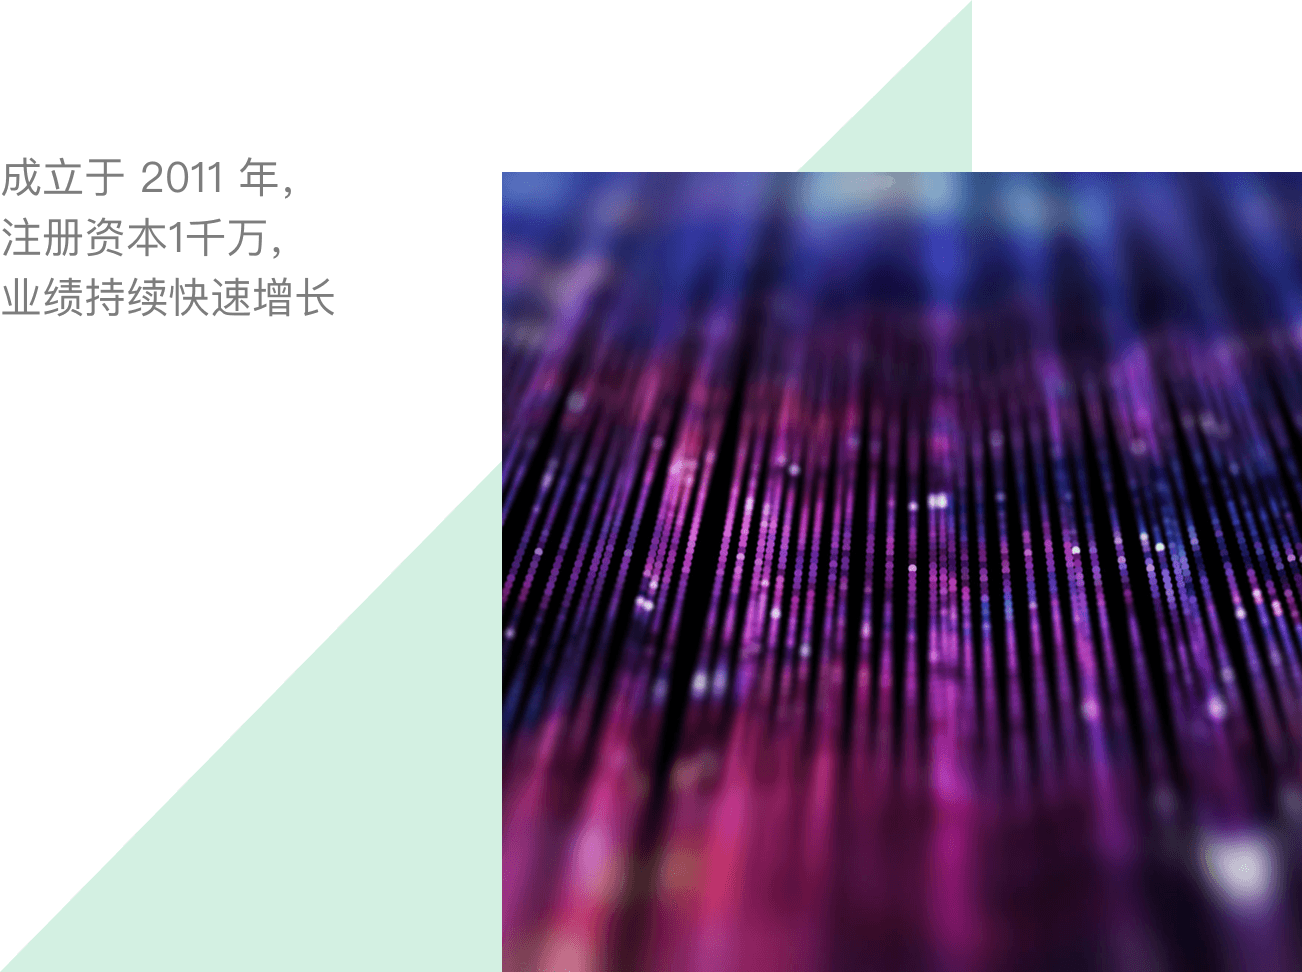
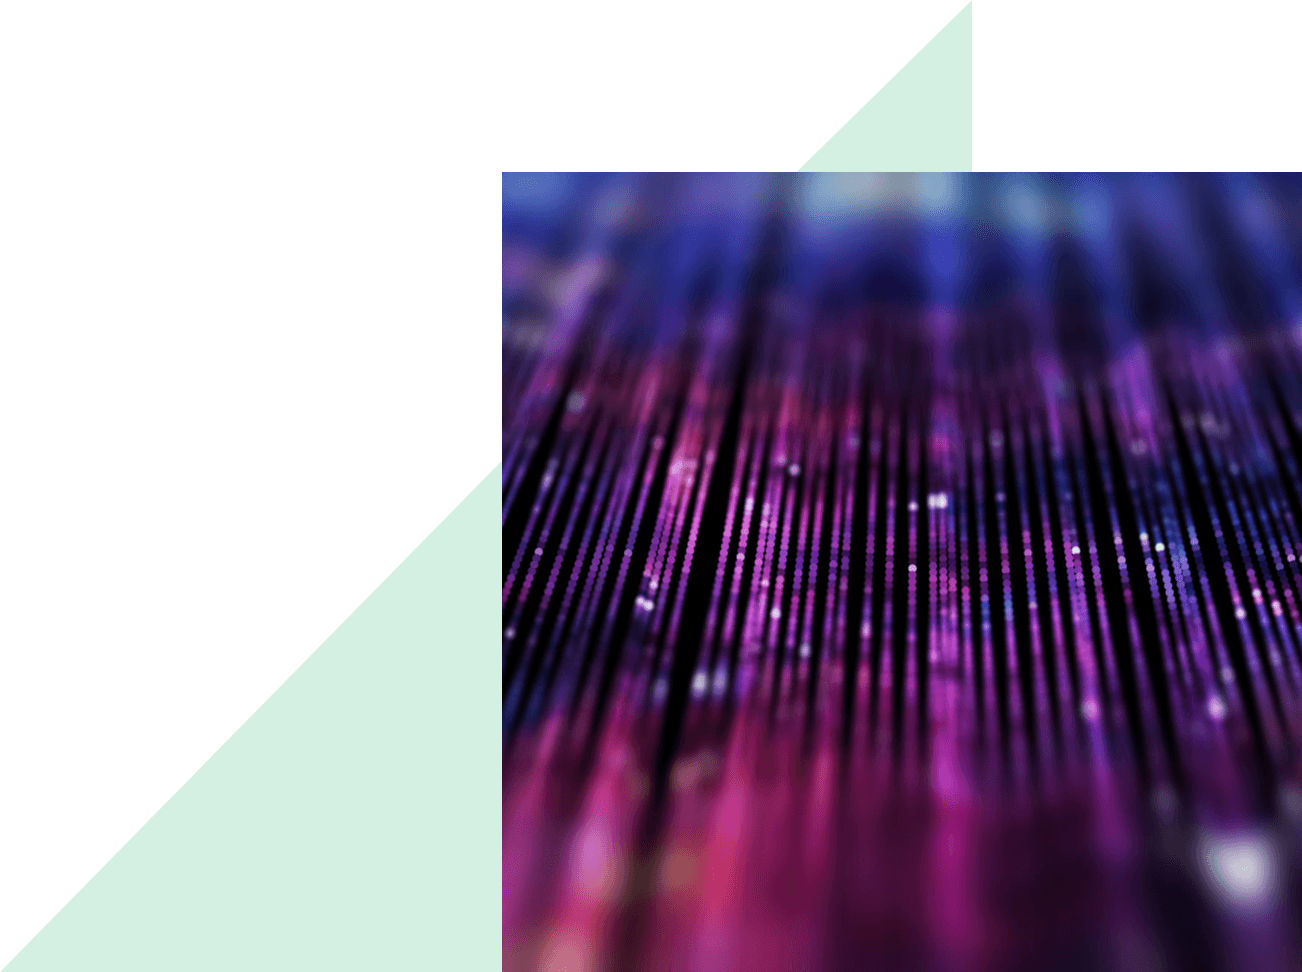
一次修改

diff --git a/src/components/PC.vue b/src/components/PC.vue
@@ -3,9 +3,9 @@
     <div class="banner">
       <div class="logo"></div>
       <div class="banner-content">
-        <h1 class="h1 wow rollIn">科技助力金融</h1>
-        <h2 class="wow bounceInDown">成号科技--可信赖的金融技术服务提供商</h2>
-        <h3 class="wow lightSpeedIn">IT智慧解决方案+IT创新服务</h3>
+        <h1 class="h1">科技助力金融</h1>
+        <h2 class="">成号科技--可信赖的金融技术服务提供商</h2>
+        <h3 class="">IT智慧解决方案+IT创新服务</h3>
         <p class="arrow bounce"></p>
       </div>
     </div>
@@ -13,18 +13,23 @@
       <div class="container">
         <div class="dis">
           <div class="chengxin wow bounceInLeft">—— 诚信、创新、专业、责任、分享 ——</div>
+          <div class="chengli wow bounceInLeft">
+            <p>成立于2011年,</p>
+            <p>注册资本1千万</p>
+            <p>业绩持续快速增长</p>
+          </div>
           <img class="wow bounceInRight" src="@/assets/img_Aboutus.png" alt="">
         </div>
       </div>
     
       <div class="about-us container">
-        <h2 class="wow flipInX">About us</h2>
+        <h2 class="">About us</h2>
         <div class="about-more">
-          <div class="about-l wow swing">关于我们</div>
-          <div class="more wow swing">更多</div>
+          <div class="about-l">关于我们</div>
+          <div class="more" @click="show = !show">更多</div>
         </div>
         <div class="row">
-          <div class="col-4">
+          <div class="col-4" @click="show = !show">
             <div class="box wow rollIn">
               <img src="@/assets/img_Aboutus01.png" alt="">
               <div class="pd10">
@@ -33,7 +38,7 @@
               </div>
             </div>
           </div>
-          <div class="col-4">
+          <div class="col-4" @click="show = !show">
             <div class="box wow shake">
               <img src="@/assets/img_Aboutus02.png" alt="">
               <div class="pd10">
@@ -42,7 +47,7 @@
               </div>
             </div>
           </div>
-          <div class="col-4">
+          <div class="col-4" @click="show = !show">
             <div class="box wow swing">
               <img src="@/assets/img_Aboutus03.png" alt="">
               <div class="pd10">
@@ -58,16 +63,16 @@
       <div class="container">
         <h2 class="warp-h2">Solution</h2>
         <div class="warp-tip">
-          <div class="warp-h3 wow bounceInLeft">解决方案</div>
-          <div class="more wow bounceInRight">更多</div>
+          <div class="warp-h3">解决方案</div>
+          <div class="more" @click="show = !show">更多</div>
         </div>
-        <img data-wow-delay="1s" class="mt130 wow bounceInDown" src="@/assets/img_jichengfangan.png" alt="">
+        <img class="mt130 wow fadeIn" src="@/assets/img_jichengfangan.png" alt="">
         <h2 class="warp-h2 mt356">Service Proposal</h2>
         <div class="warp-tip">
-          <div class="warp-h3 wow bounceInLeft">服务方案</div>
-          <div class="more wow bounceInRight">更多</div>
+          <div class="warp-h3">服务方案</div>
+          <div class="more" @click="show = !show">更多</div>
         </div>
-        <img data-wow-delay="1s" class="mt130 wow bounceInDown" src="@/assets/img_fuwufangan.png" alt="">
+        <img class="mt130 wow bounceInRight" src="@/assets/img_fuwufangan.png" alt="">
         <div class="pledge wow bounceInDown">服务承诺</div>
         <div class="row">
           <div class="col-4 pledge-center">
@@ -124,7 +129,7 @@
     </div>
     <div class="cooperative">
       <div class="container">
-        <div class="cooperative-client wow rollIn">
+        <div class="cooperative-client">
           <h2>Cooperative client</h2>
           <h3>合作客户</h3>
         </div>
@@ -178,6 +183,16 @@ export default {
 }
 </script>
 <style lang="scss" scoped>
+.chengli {
+  font-size: 38px;
+  color: #7d7d7d;
+  position: absolute;
+  top: 130px;
+  left: 0;
+  p {
+    margin: 0;
+  }
+}
 .fade-enter-active, .fade-leave-active {
   transition: opacity .5s;
 }

diff --git a/src/components/Wap.vue b/src/components/Wap.vue
@@ -31,7 +31,7 @@
                 <p class="content">全公司共有多项各类技术认证，涵盖IT基础架构的各个方面</p>
             </div>
             <div class="swiper-slide list-item ch-warp">
-              <div class="ch-w">
+              <div class="ch-w" @click="mores">
                 <div class="more-btn"></div>
                 <div>查看更多</div>
               </div>
@@ -51,16 +51,34 @@
       <h2>Solution</h2>
       <p>解决方案</p>
       <div class="jicheng">
-        <img src="@/assets/ing_jichf.png" alt="">
+        <img width="215" src="@/assets/ing_jichf.png" alt="">
       </div>
-      <img class="mt42" src="@/assets/bg1.jpg" alt="">
+      <div class="mt42">
+        <ul class="fangan">
+          <li><img src="@/assets/icon_wangluo.svg" /> <span>网络集成</span></li>
+          <li><img src="@/assets/icon_dashuju.svg" /> <span>私有云解决方案</span></li>
+          <li><img src="@/assets/icon_anquan.svg" /> <span>安全集成</span></li>
+          <li><img src="@/assets/icon_caidan.svg" /> <span>容灾解决方案</span></li>
+          <li><img src="@/assets/icon_xingzhuang.svg" /> <span>大数据集成</span></li>
+          <li><img src="@/assets/icon_yunweizhongxin.svg" /> <span>运维一体化</span></li>
+        </ul>
+      </div>
       <h2 class="mt60">Service Proposal</h2>
       <p>服务方案</p>
       <div class="jicheng">
-        <img src="@/assets/ing_fuwu.png" alt="">
+        <img width="215" src="@/assets/ing_fuwu.png" alt="">
       </div>
-      <img class="mt42" src="@/assets/bg2.jpg" alt="">
-      <img class="mt42" src="@/assets/img_fuwuchennuo.png" alt="">
+      <div class="mt42">
+        <ul class="fuwu">
+          <li><img src="@/assets/icon_xingzhuang.svg" alt="">大数据服务</li>
+          <li><img src="@/assets/icon_Indus.svg" alt="">Linux、Mysql、开源软件服务</li>
+          <li><img src="@/assets/icon_anquan.svg" alt="">安全服务</li>
+          <li><img src="@/assets/icon_weiruan.svg" alt="">微软服务</li>
+          <li><img src="@/assets/icon_wangluo.svg" alt="">网络服务</li>
+          <li><img src="@/assets/icon_siyouyunlan.svg" alt="">虚拟化、云桌面服务</li>
+        </ul>
+      </div>
+      <img class="mt59" src="@/assets/img_fuwuchennuo.png" alt="">
     </div>
     <div class="pr">
       <div class="cooperative-wrap">
@@ -87,6 +105,9 @@ export default {
     Header
   },
   methods: {
+    mores () {
+      this.$router.push('about')
+    },
     close () {
 
     }
@@ -106,6 +127,37 @@ export default {
 </script>
 
 <style lang="scss" scoped>
+.fuwu {
+  li {
+    margin-bottom: 27px;
+    display: flex;
+    align-items: center;
+  }
+  img {
+    width: 24px;
+    margin-right: 15px;
+  }
+}
+.fangan {
+  overflow: hidden;
+  display: flex;
+  
+  flex-direction: row;
+  flex-wrap: wrap;
+  li {
+    display: flex;
+    align-items: center;
+    width: 150px;
+    margin-bottom: 21px;
+    img {
+      width: 24px;
+      margin-right: 13px;
+    }
+  }
+}
+.mt59 {
+  margin-top: 32px;
+}
 .wap {
   position: relative;
   margin: 0 auto;
@@ -117,7 +169,7 @@ export default {
   }
   .more-user {
     position: absolute;
-    right: 0;
+    right: 24px;
     top: 120px;
 
   }
@@ -137,7 +189,7 @@ export default {
     overflow: hidden;
   }
   .mt60 {
-    margin-top: 60px;
+    margin-top: 37px;
   }
   .mt42 {
     margin-top: 42px;
@@ -216,7 +268,8 @@ export default {
     }
   }
   .jicheng {
-    padding: 0 67px 0 40px;
+    // padding: 0 67px 0 40px;
+    text-align: center;
   }
   .pd20 {
     padding: 48px 0 100px;

diff --git a/src/views/Solution.vue b/src/views/Solution.vue
@@ -24,7 +24,7 @@
 </div>
     </div>
     <Contact></Contact>
-    <router-link to="/join"><Footer></Footer></router-link>
+    <router-link to="/cooperation"><Footer></Footer></router-link>
   </div>
 </template>
 <script>
@@ -54,20 +54,22 @@ export default {
   }
   .about-content {
     background-color: #fff;
-    padding: 40px 24px;
-    margin-bottom: 60px;
+    padding: 45px 24px;
+    // margin-bottom: 60px;
   }
 
   .about-content-title {
-    color: #262626;
+    color: #222;
     font-size: 15px;
-    font-weight: bold;
+    font-weight: 500;
     margin-top: 45px;
+    
   }
   .about-content-d {
     // margin-bottom: 60px;
     font-size: 13px;
     line-height: 26px;
+    color: #222;
   }
   .join-title {
     color: #000;

diff --git a/src/views/About.vue b/src/views/About.vue
@@ -47,7 +47,7 @@ export default {
     text-align: center;
     color: #000;
     font-size: 17px;
-    font-weight: bold;
+    font-weight: 500;
     background-color: #fff;
     margin-top: 60px;
     margin-bottom: 5px;
@@ -59,12 +59,16 @@ export default {
   .about-content-title {
     color: #262626;
     font-size: 15px;
-    font-weight: bold;
+    font-weight: 500;
   }
   .about-content-d {
     margin-bottom: 60px;
     font-size: 13px;
     line-height: 26px;
+    color: #262626;
+  }
+  .about-content-d:last-child {
+    margin-bottom: 0;
   }
 }
 </style>

diff --git a/src/views/Cooperation.vue b/src/views/Cooperation.vue
@@ -10,7 +10,8 @@
       <img src="@/assets/img_qitajingrongkehu.png" alt="">
     </div>
 <Contact></Contact>
-<Footer></Footer>
+
+<router-link to="/join"><Footer></Footer></router-link>
   </div>
 </template>
 <script>
@@ -47,12 +48,13 @@ export default {
   .about-content-title {
     color: #262626;
     font-size: 15px;
-    font-weight: bold;
+    font-weight: 500;
   }
   .about-content-d {
     // margin-bottom: 60px;
     font-size: 13px;
     line-height: 26px;
+    color: #222;
   }
   .join-title {
     color: #000;

diff --git a/src/views/Join.vue b/src/views/Join.vue
@@ -85,7 +85,7 @@ export default {
   .about-content {
     background-color: #fff;
     padding: 45px 40px;
-    margin-bottom: 60px;
+    // margin-bottom: 60px;
   }
   &.about-content:last-child{
 margin-bottom: 0;
@@ -96,12 +96,14 @@ margin-bottom: 0;
   .about-content-title {
     color: #262626;
     font-size: 15px;
-    font-weight: bold;
+    font-weight: 500;
   }
   .about-content-d {
     // margin-bottom: 60px;
     font-size: 13px;
     line-height: 26px;
+    color: #222;
+
   }
   .join-title {
     color: #000;

diff --git a/src/components/Header.vue b/src/components/Header.vue
@@ -1,6 +1,6 @@
 <template>
   <div :class="isIndex ? '' : 'hidde'">
-    <div class="menu-mark" v-show="isShowMenu"></div>
+    <div class="menu-mark" v-show="isShowMenu" @click="isShowMenu = false"></div>
     <transition name="fade">
       <div class="menu-mark-move" v-if="isShowMenu">
         <div class="menu-mark-close"  @click="isShowMenu = !isShowMenu"></div>

diff --git a/src/views/ContactUs.vue b/src/views/ContactUs.vue
@@ -51,12 +51,13 @@ export default {
   .about-content-title {
     color: #262626;
     font-size: 15px;
-    font-weight: bold;
+    font-weight: 500;
   }
   .about-content-d {
     // margin-bottom: 60px;
     font-size: 13px;
     line-height: 26px;
+    color: #222;
   }
   .join-title {
     color: #000;
